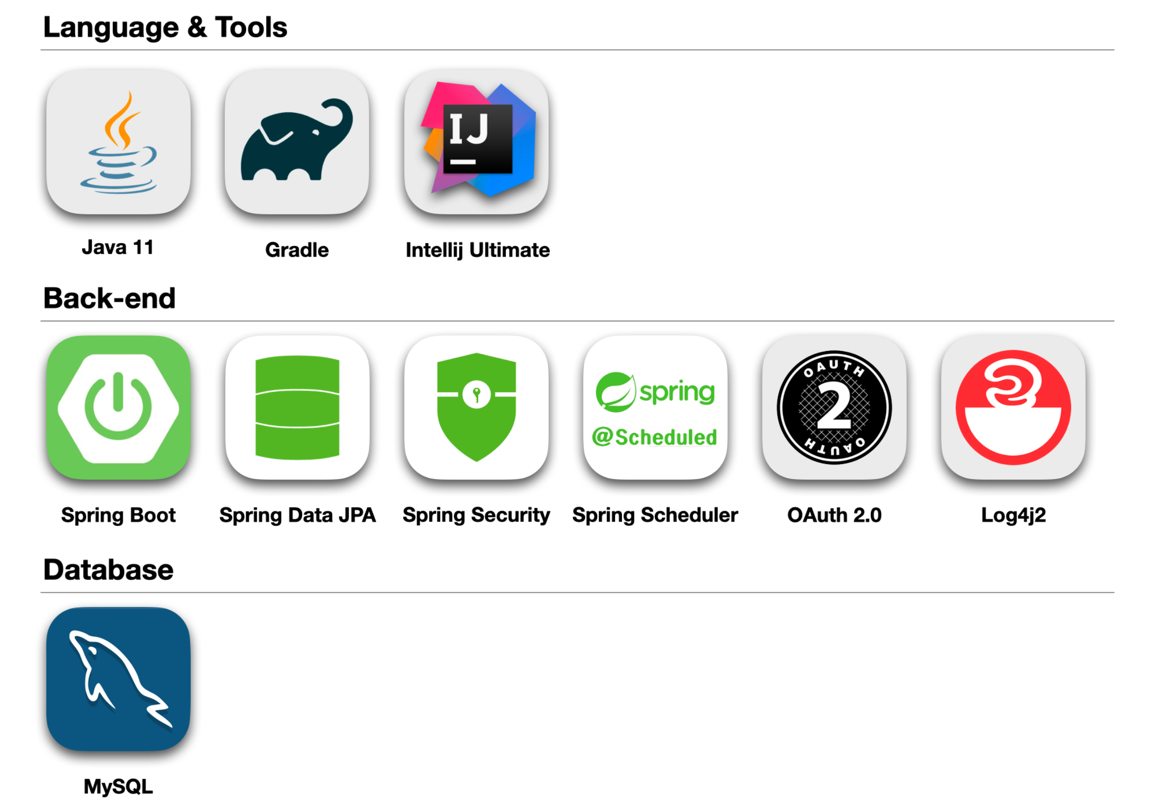
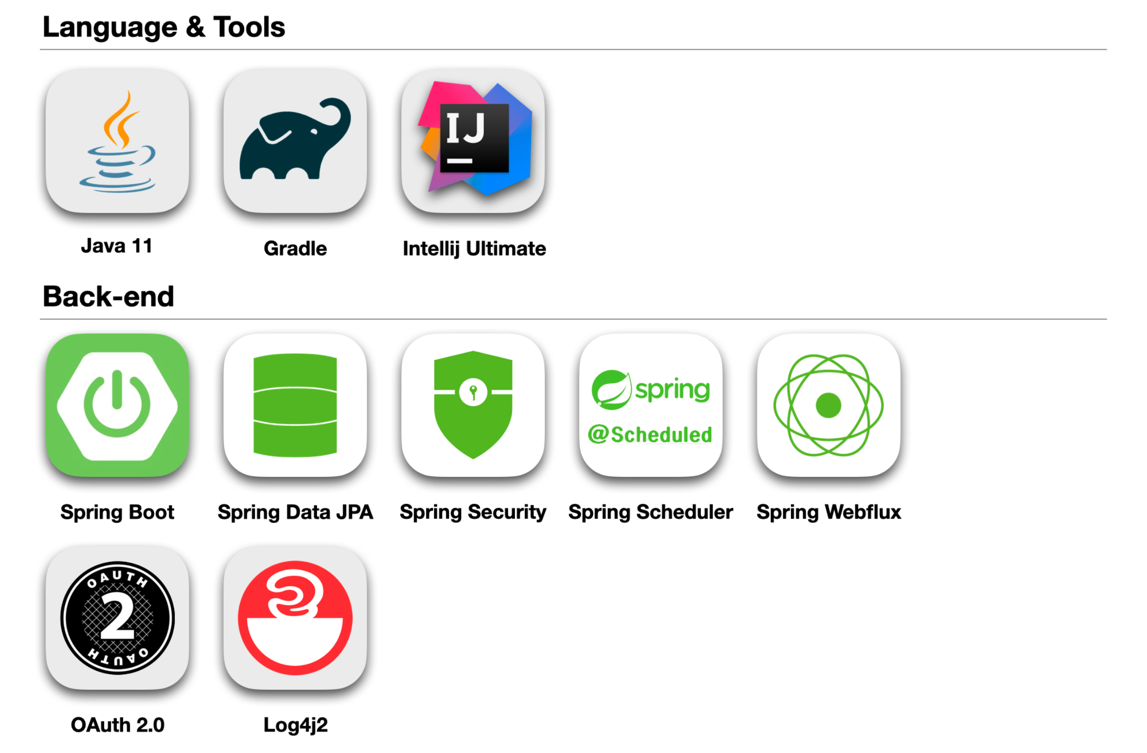
[Update] README.md - 기술 스택 수정

Changed region(s): [[0.0305, 0.0916, 0.9459, 1.0], [0.0305, 0.0, 0.2746, 0.0611]]

diff --git a/README.md b/README.md
@@ -93,8 +93,9 @@
 # 📝 프로젝트 소개
 
 ## ⚒ 기술 스택
-![Stack1](assets/stack1.png)
-![Stack2](assets/stack2.png)
+![stack1](assets/stack1.png)
+![stack2](assets/stack2.png)
+![stack3](assets/stack3.png)
 
 ### 📍 ERD
 ![ERD](assets/bookmore-erd.png)
